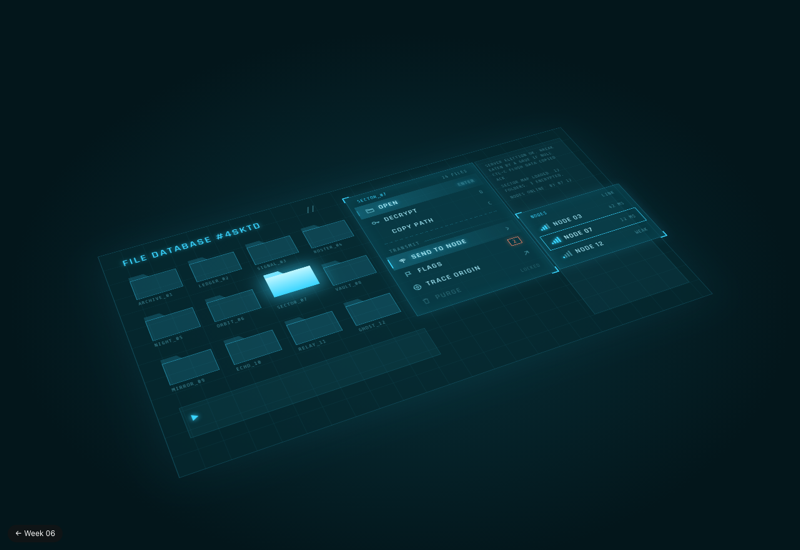
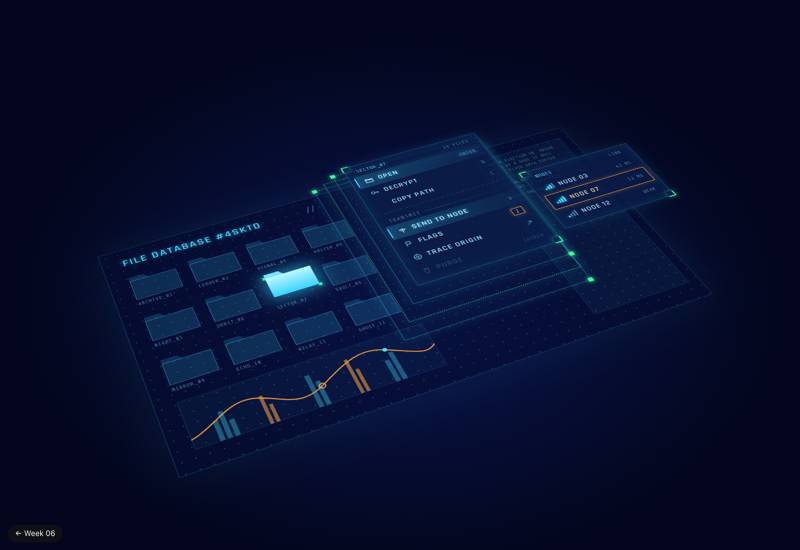
Week 06 Set 1: Vault restyled navy/cyan/green/orange with stacking-tier open
Claude-Session: https://claude.ai/code/session_01NJxmaEWhDanH1Md96UKkh6

Changed region(s): [[0.125, 0.2164, 0.9062, 0.8655]]

diff --git a/week-06/week-06-vault-menu.html b/week-06/week-06-vault-menu.html
@@ -5,7 +5,7 @@
   <meta name="viewport" content="width=device-width, initial-scale=1" />
   <title>Week 06 · Set 1 · Vault · In use</title>
   <link rel="icon" href="../shared/favicon.svg" type="image/svg+xml" />
-  <link rel="stylesheet" href="week-06-vault.css?v=1" />
+  <link rel="stylesheet" href="week-06-vault.css?v=2" />
   <style>
   /* In use: a holographic file database, projected on a tilted sheet of glass. Folders sit on the
      plane; pointing at one lifts it off the glass. Clicking it opens its menu: a line of light
@@ -16,13 +16,13 @@
   body { background: var(--void); color: var(--ink); font: 500 14px/1.3 var(--font); -webkit-font-smoothing: antialiased; }
   button { font: inherit; }
   :root { --w: 1000px; --h: 640px; --fit: 1; }
-  .hero { position: relative; height: 100vh; overflow: hidden; background: radial-gradient(70% 70% at 50% 55%, #08313a, var(--void) 70%); }
+  .hero { position: relative; height: 100vh; overflow: hidden; background: radial-gradient(70% 70% at 50% 55%, #0a1650, var(--void) 70%); }
   .stage { position: absolute; left: 50%; top: 50%; width: var(--w); height: var(--h); transform: translate(-50%, -50%) scale(var(--fit)); perspective: 1800px; }
 
   /* the tilted plane: everything sits on it, so it all shares one perspective */
   .plane { position: absolute; left: 30px; top: 60px; width: 940px; height: 520px; transform-style: preserve-3d; transform: rotateX(46deg) rotateZ(-24deg) scale(.92); transform-origin: 50% 50%;
-    background: linear-gradient(rgba(57,213,255,.05) 1px, transparent 1px) 0 0 / 40px 40px, linear-gradient(90deg, rgba(57,213,255,.05) 1px, transparent 1px) 0 0 / 40px 40px, rgba(6, 42, 49, .7);
-    box-shadow: inset 0 0 0 1px rgba(57,213,255,.18), 0 0 80px rgba(57,213,255,.08); }
+    background: radial-gradient(rgba(61,227,255,.28) 1px, transparent 1.5px) 0 0 / 22px 22px, rgba(6, 13, 51, .55);
+    box-shadow: inset 0 0 0 1px rgba(61,227,255,.22), 0 0 90px rgba(61,227,255,.08); }
   .plane > * { position: absolute; }
   .title { left: 36px; top: 26px; font: 600 22px/1 var(--font); letter-spacing: .1em; color: var(--cyan); text-shadow: 0 0 10px rgba(57,213,255,.6); }
   .ticks { left: 380px; top: 24px; font: 400 18px/1 var(--mono); color: var(--ink-3); }
@@ -30,34 +30,42 @@
   .cell { display: grid; justify-items: start; gap: 6px; transform-style: preserve-3d; }
   .cell span { font: 400 10px/1 var(--mono); letter-spacing: .06em; color: var(--ink-3); transition: color var(--hover-time); }
   .cell:hover span, .cell:focus-within span { color: var(--cyan-hi); }
-  .strip { left: 36px; top: 392px; width: 420px; height: 64px; background: rgba(57,213,255,.06); box-shadow: inset 0 0 0 1px rgba(57,213,255,.14); }
-  .strip::before { content: "▶"; position: absolute; left: 12px; top: 20px; color: var(--cyan); text-shadow: 0 0 8px var(--cyan); }
+  .strip { left: 36px; top: 380px; width: 420px; height: 100px; background: rgba(61,227,255,.04); box-shadow: inset 0 0 0 1px rgba(61,227,255,.16); }
+  .strip svg { width: 100%; height: 100%; display: block; }
   .log { left: 730px; top: 30px; width: 190px; height: 450px; padding: 14px; overflow: hidden; background: rgba(57,213,255,.05); box-shadow: inset 0 0 0 1px rgba(57,213,255,.16);
     font: 400 10.5px/1.45 var(--mono); color: rgba(95,179,196,.55); letter-spacing: .03em; }
   .log p { margin: 0 0 6px; }
-  .log p.is-new { color: var(--cyan-hi); text-shadow: 0 0 6px rgba(57,213,255,.7); }
+  .log p.is-new { color: var(--orange); text-shadow: 0 0 6px rgba(255,160,64,.6); }
   .log p.is-new::after { content: "▌"; animation: caret .6s steps(1) infinite; }
   .log p.is-done::after { display: none; }
   @keyframes caret { 50% { opacity: 0; } }
 
-  /* the menu: shut, it is nothing; opening, a line of light that widens into the panel */
-  .v-pop { left: 456px; top: 30px; z-index: 5; visibility: hidden; opacity: 0; clip-path: inset(49.5% 0 49.5% 0);
-    transition: clip-path var(--close-time) var(--ease-out), opacity var(--close-time) var(--ease-out), visibility 0s var(--close-time); }
-  .v-pop.is-open { visibility: visible; opacity: 1; clip-path: inset(-20px -20px -20px -20px);
-    transition: clip-path var(--open-time) var(--ease-out) 90ms, opacity 60ms linear, visibility 0s; animation: flicker var(--open-time) linear; }
-  /* once it has materialised, nothing clips it, so the submenu can reach out beside */
-  .v-pop.is-open.is-settled { clip-path: none; }
-  @keyframes flicker { 0%, 20% { filter: brightness(1.8); } 70% { filter: brightness(1); } 76% { filter: brightness(.7); } 80% { filter: brightness(1.2); } 100% { filter: none; } }
-  .v-pop .flash { position: absolute; left: -10px; right: -10px; top: 50%; height: 2px; margin-top: -1px; background: var(--cyan-hi); box-shadow: 0 0 14px 2px var(--cyan); opacity: 0; scale: 0 1; pointer-events: none; }
-  .v-pop.is-open .flash { animation: beam var(--open-time) var(--ease-out); }
-  @keyframes beam { 0% { opacity: 1; scale: 0 1; } 25% { opacity: 1; scale: 1 1; } 60% { opacity: 0; scale: 1 1; } 100% { opacity: 0; } }
+  /* the menu: shut, it lies flat on the floor. Opening, it is built up in tiers, like a stepped
+     pyramid: three frames rise off the floor one after another, the widest and lowest first, and the
+     menu settles on top. Closing, the whole stack sinks back to the floor at once. */
+  .v-pop { left: 456px; top: 30px; z-index: 5; visibility: hidden; transform-style: preserve-3d; transform: translateZ(calc(var(--tier-gap) * 3));
+    transition: visibility 0s var(--close-time); }
+  .v-pop.is-open { visibility: visible; transition: visibility 0s; }
+  .tier { position: absolute; inset: calc(var(--n) * -14px); pointer-events: none; border: 1px solid rgba(61, 227, 255, .4); background: rgba(61, 227, 255, .025);
+    box-shadow: 0 0 18px rgba(61, 227, 255, .12); opacity: 0; transform: translateZ(calc(var(--tier-gap) * -3));
+    transition: transform var(--close-time) var(--ease-out), opacity var(--close-time) var(--ease-out); }
+  .tier.is-dotted { border: 2px dotted rgba(57, 255, 154, .55); background: transparent; }
+  .tier::before, .tier::after { content: ""; position: absolute; width: 9px; height: 9px; background: var(--green); box-shadow: 0 0 10px var(--green); }
+  .tier::before { left: -5px; top: -5px; } .tier::after { right: -5px; bottom: -5px; }
+  .tier.is-dotted::before, .tier.is-dotted::after { display: none; }
+  .v-pop.is-open .tier { opacity: 1; transform: translateZ(calc(var(--tier-gap) * -1 * var(--n)));
+    transition: transform var(--tier-time) var(--ease-out) calc((3 - var(--n)) * var(--tier-step)), opacity 180ms ease calc((3 - var(--n)) * var(--tier-step)); }
+  .v-pop > .v-menu { opacity: 0; transform: translateZ(calc(var(--tier-gap) * -3)); transition: transform var(--close-time) var(--ease-out), opacity var(--close-time) var(--ease-out); }
+  .v-pop.is-open > .v-menu { opacity: 1; transform: translateZ(0); transition: transform var(--tier-time) var(--ease-out) calc(3 * var(--tier-step)), opacity 220ms ease calc(3 * var(--tier-step)); }
+  .v-pop .rows, .v-pop .has-sub { transform-style: preserve-3d; }
   .v-pop .rows > * { opacity: 0; translate: -8px 0; transition: opacity 120ms, translate 120ms; }
-  .v-pop.is-open .rows > * { opacity: 1; translate: 0 0; transition: opacity 260ms var(--ease-out), translate 360ms var(--ease-out); transition-delay: calc(var(--i) * var(--stagger) + 160ms); }
+  .v-pop.is-open .rows > * { opacity: 1; translate: 0 0; transition: opacity 260ms var(--ease-out), translate 360ms var(--ease-out); transition-delay: calc(var(--i) * var(--stagger) + 3 * var(--tier-step) + 120ms); }
 
   .has-sub { position: relative; }
-  .submenu.v-menu { position: absolute; left: calc(100% + 14px); top: -10px; width: 220px; visibility: hidden; opacity: 0; clip-path: inset(0 100% 0 0);
-    transition: clip-path var(--close-time) var(--ease-out), opacity var(--close-time), visibility 0s var(--close-time); }
-  .has-sub.is-open > .submenu { visibility: visible; opacity: 1; clip-path: inset(-20px -20px -20px -20px); transition: clip-path 340ms var(--ease-out), opacity 80ms, visibility 0s; }
+  /* the submenu is one more tier on the stack: it rises off the menu as it slides out */
+  .submenu.v-menu { position: absolute; left: calc(100% + 14px); top: -10px; width: 220px; visibility: hidden; opacity: 0; transform: translateZ(0) translateX(-12px);
+    transition: transform var(--close-time) var(--ease-out), opacity var(--close-time), visibility 0s var(--close-time); }
+  .has-sub.is-open > .submenu { visibility: visible; opacity: 1; transform: translateZ(var(--tier-gap)) translateX(0); transition: transform var(--tier-time) var(--ease-out), opacity 160ms, visibility 0s; }
 
   .s-item.is-no { animation: deny 360ms var(--ease-out); }
   @keyframes deny { 0%, 100% { color: var(--ink-off); } 30% { color: var(--alert); text-shadow: 0 0 8px var(--alert); translate: -3px 0; } 60% { translate: 2px 0; } }
@@ -72,7 +80,11 @@
         <div class="title" aria-hidden="true">FILE DATABASE #4SKTD</div>
         <div class="ticks" aria-hidden="true">//</div>
         <div class="grid" role="group" aria-label="Folders"></div>
-        <div class="strip" aria-hidden="true"></div>
+        <div class="strip" aria-hidden="true"><svg viewBox="0 0 420 100" preserveAspectRatio="none">
+          <g fill="rgba(61,227,255,.35)"><rect x="40" y="58" width="8" height="42"/><rect x="52" y="44" width="8" height="56"/><rect x="64" y="66" width="8" height="34"/><rect x="200" y="30" width="8" height="70"/><rect x="212" y="48" width="8" height="52"/><rect x="330" y="52" width="8" height="48"/><rect x="342" y="38" width="8" height="62"/></g>
+          <g fill="rgba(255,160,64,.55)"><rect x="120" y="40" width="6" height="60"/><rect x="130" y="62" width="6" height="38"/><rect x="270" y="24" width="6" height="76"/><rect x="280" y="50" width="6" height="50"/></g>
+          <path d="M0 80 C 40 70, 70 30, 110 40 S 170 90, 220 60 S 300 10, 340 30 S 400 70, 420 50" fill="none" stroke="#ffa040" stroke-width="2"/>
+          <circle cx="220" cy="60" r="5" fill="none" stroke="#ffa040" stroke-width="2"/><circle cx="340" cy="30" r="4" fill="#3de3ff"/></svg></div>
         <div class="log" aria-live="polite" aria-label="Log">
           <p>SERVER ELECTION OK. BREAK EATEN BY A GRUE IF NULL. CTL-C FLUSH DATA COPIED ACK.</p>
           <p>SECTOR MAP LOADED. 12 FOLDERS. 3 ENCRYPTED.</p>
@@ -80,7 +92,9 @@
         </div>
 
         <div class="v-pop" id="file-menu">
-          <span class="flash" aria-hidden="true"></span>
+          <span class="tier" style="--n:3" aria-hidden="true"></span>
+          <span class="tier is-dotted" style="--n:2" aria-hidden="true"></span>
+          <span class="tier" style="--n:1" aria-hidden="true"></span>
           <div class="v-menu">
             <div class="v-head" aria-hidden="true"><b id="menu-folder">SECTOR_07</b><span id="menu-count">14 FILES</span></div>
             <div class="rows" role="menu" aria-labelledby="menu-folder">
@@ -110,7 +124,7 @@
 
   <section class="spec" aria-labelledby="spec-title">
     <h2 id="spec-title">Spec</h2>
-    <p>Read from the values this page runs on. Light does the work: rows fill with it, folders rise on it, the menu is drawn out of a single line of it.</p>
+    <p>Read from the values this page runs on. The menu is built, not shown: three tiers rise off the floor one after another and the menu settles on top; the submenu is one tier more.</p>
     <div class="spec-grid"></div>
   </section>
 
@@ -118,7 +132,7 @@
   <script>
     // the folders on the plane
     const names = ['ARCHIVE_01', 'LEDGER_02', 'SIGNAL_03', 'ROSTER_04', 'NIGHT_05', 'ORBIT_06', 'SECTOR_07', 'VAULT_08', 'MIRROR_09', 'ECHO_10', 'RELAY_11', 'GHOST_12'];
-    document.querySelector('.grid').innerHTML = names.map((n, i) => `<div class="cell"><button class="folder" type="button" aria-haspopup="menu" aria-expanded="false" aria-controls="file-menu" aria-label="${n}" data-files="${[14, 9, 31, 6, 22, 3, 14, 40, 11, 8, 17, 2][i]}"></button><span aria-hidden="true">${n}</span></div>`).join('');
+    document.querySelector('.grid').innerHTML = names.map((n, i) => `<div class="cell"><button class="folder" type="button" aria-haspopup="menu" aria-expanded="false" aria-controls="file-menu" aria-label="${n}" data-files="${[14, 9, 31, 6, 22, 3, 14, 40, 11, 8, 17, 2][i]}"><i class="node a"></i><i class="node b"></i></button><span aria-hidden="true">${n}</span></div>`).join('');
   </script>
   <script src="week-06-sketch.js?v=2"></script>
   <script>
@@ -177,6 +191,6 @@
       if (location.hash === '#open') { const f = document.querySelectorAll('.folder')[6]; pop.style.transition = 'none'; open(f); pop.classList.add('is-settled'); const h = pop.querySelector('.has-sub'); h.classList.add('is-open'); }
     })();
   </script>
-  <script src="week-06-vault-spec.js?v=1"></script>
+  <script src="week-06-vault-spec.js?v=2"></script>
 </body>
 </html>

diff --git a/week-06/week-06-vault.css b/week-06/week-06-vault.css
@@ -6,19 +6,21 @@
 
 :root {
   /* colour */
-  --void: #03161b;           /* the room */
-  --plane: #062a31;          /* the glass plane */
-  --glass: rgba(9, 70, 82, .55);   /* the menu */
-  --cyan: #39d5ff;           /* light */
-  --cyan-hi: #b6f4ff;        /* hot light: hover text, the open folder */
-  --ink: #9fe3f2;            /* item text */
-  --ink-2: #5fb3c4;          /* icons */
-  --ink-3: #3d8796;          /* keys, section labels */
-  --ink-off: rgba(95, 179, 196, .32); /* unavailable */
-  --line: rgba(57, 213, 255, .28);
-  --hot: rgba(57, 213, 255, .22);    /* hover fill */
-  --hot-press: rgba(57, 213, 255, .45);
-  --alert: #ff8a6b;
+  --void: #03061c;           /* the room: deep navy */
+  --plane: #060d33;          /* the floor, dotted */
+  --glass: rgba(10, 28, 72, .78);  /* the menu */
+  --cyan: #3de3ff;           /* light */
+  --cyan-hi: #c2f7ff;        /* hot light: hover text, the open folder */
+  --green: #39ff9a;          /* the corner nodes; pressed */
+  --orange: #ffa040;         /* what needs you: badges, the chosen node, the newest log line */
+  --ink: #a6e9f7;            /* item text */
+  --ink-2: #5fb8d0;          /* icons */
+  --ink-3: #4a7fa8;          /* keys, section labels */
+  --ink-off: rgba(95, 184, 208, .3); /* unavailable */
+  --line: rgba(61, 227, 255, .3);
+  --hot: rgba(61, 227, 255, .2);     /* hover fill */
+  --hot-press: rgba(57, 255, 154, .35);
+  --alert: #ffa040;
 
   /* type */
   --font: "Rajdhani", "Arial Narrow", sans-serif;
@@ -36,16 +38,19 @@
   --ease-out: cubic-bezier(.16, 1, .3, 1);
   --hover-time: 220ms;
   --lift: 14px;              /* a folder rises off the plane */
-  --open-time: 420ms;        /* the menu materialises: a line, then the panel */
-  --close-time: 200ms;
+  --tier-gap: 22px;          /* each tier stands this far above the one below */
+  --tier-time: 360ms;        /* how long one tier takes to rise */
+  --tier-step: 90ms;         /* tiers rise one after another, lowest first */
+  --open-time: 560ms;        /* the whole stack, from the floor to the menu on top */
+  --close-time: 220ms;       /* the stack sinks back to the floor at once */
   --stagger: 26ms;
   --type-speed: 14ms;        /* the log types a letter at a time */
 }
 
 /* ---------- the menu: projected glass with bracketed corners ---------- */
 .v-menu { position: relative; width: var(--menu-w); padding: var(--menu-pad); background: var(--glass); border: 1px solid var(--line);
-  box-shadow: inset 0 0 30px rgba(57, 213, 255, .08), 0 0 24px rgba(57, 213, 255, .12); -webkit-backdrop-filter: blur(4px); backdrop-filter: blur(4px); }
-.v-menu::before, .v-menu::after { content: ""; position: absolute; width: 14px; height: 14px; border: var(--edge) solid var(--cyan); pointer-events: none; }
+  box-shadow: inset 0 0 30px rgba(57, 213, 255, .08), 0 0 24px rgba(57, 213, 255, .12); transform-style: preserve-3d; }
+.v-menu::before, .v-menu::after { content: ""; position: absolute; width: 14px; height: 14px; border: var(--edge) solid var(--green); box-shadow: 0 0 8px rgba(57, 255, 154, .5); pointer-events: none; }
 .v-menu::before { left: -3px; top: -3px; border-right: 0; border-bottom: 0; }
 .v-menu::after { right: -3px; bottom: -3px; border-left: 0; border-top: 0; }
 .v-head { display: flex; justify-content: space-between; padding: 4px var(--item-px) 8px; font: 400 11px/1 var(--mono); color: var(--ink-3); letter-spacing: .06em; }
@@ -63,7 +68,8 @@
   background: linear-gradient(90deg, var(--hot), rgba(57, 213, 255, .03)); color: var(--cyan-hi); text-shadow: 0 0 8px rgba(57, 213, 255, .8); padding-left: calc(var(--item-px) + 4px); }
 .s-item:hover::before, .s-item:focus-visible::before, .s-item.is-hover::before, .has-sub.is-open > .s-item::before { opacity: 1; scale: 1 1; }
 /* pressed: the row flares */
-.s-item:active, .s-item.is-press, .s-item.is-picked { background: linear-gradient(90deg, var(--hot-press), rgba(57, 213, 255, .12)); color: #fff; text-shadow: 0 0 12px var(--cyan); }
+.s-item:active, .s-item.is-press, .s-item.is-picked { background: linear-gradient(90deg, var(--hot-press), rgba(57, 255, 154, .06)); color: #eafff4; text-shadow: 0 0 12px var(--green); }
+.s-item:active::before, .s-item.is-press::before { background: var(--green); box-shadow: 0 0 12px var(--green); opacity: 1; scale: 1 1; }
 .s-item[aria-disabled="true"] { color: var(--ink-off); background: transparent; text-shadow: none; padding-left: var(--item-px); cursor: default; }
 .s-item[aria-disabled="true"]::before { display: none; }
 .s-ico { width: var(--icon); height: var(--icon); flex: none; color: var(--ink-2); transition: color var(--hover-time); }
@@ -75,7 +81,7 @@
 .s-item:hover .s-key, .s-item.is-hover .s-key { color: var(--cyan); }
 .s-end { width: 14px; height: 14px; flex: none; color: var(--ink-3); }
 .s-note { font: 400 11px/1 var(--mono); color: var(--ink-off); letter-spacing: .04em; }
-.s-badge { min-width: 22px; height: 18px; padding: 0 6px; border: 1px solid var(--alert); color: var(--alert); font: 400 12px/16px var(--mono); text-align: center; box-shadow: 0 0 8px rgba(255, 138, 107, .35); }
+.s-badge { min-width: 22px; height: 18px; padding: 0 6px; border: 1px solid var(--orange); color: var(--orange); font: 400 12px/16px var(--mono); text-align: center; box-shadow: 0 0 8px rgba(255, 160, 64, .4); }
 .s-sect { display: flex; align-items: center; gap: 8px; padding: 10px var(--item-px) 6px; font: 400 11px/1 var(--mono); letter-spacing: .14em; color: var(--ink-3); }
 .s-sect::after { content: ""; flex: 1; height: 1px; background: linear-gradient(90deg, var(--line), transparent); }
 .s-rule { height: 1px; margin: 6px var(--item-px); background: repeating-linear-gradient(90deg, var(--line) 0 6px, transparent 6px 10px); }
@@ -85,7 +91,7 @@
   font: 600 15px/1 var(--font); letter-spacing: var(--track); text-transform: uppercase; transition: background-color var(--hover-time) var(--ease-out), color var(--hover-time) var(--ease-out); }
 .s-node:hover, .s-node:focus-visible, .s-node.is-hover { background: linear-gradient(90deg, var(--hot), transparent); color: var(--cyan-hi); outline: none; }
 .s-node:active, .s-node.is-press { background: var(--hot-press); color: #fff; }
-.s-node[aria-checked="true"] { color: var(--cyan-hi); box-shadow: inset 0 0 0 1px var(--cyan); }
+.s-node[aria-checked="true"] { color: #ffd9b0; box-shadow: inset 0 0 0 1px var(--orange), 0 0 10px rgba(255, 160, 64, .3); }
 .s-node .sig { display: flex; align-items: flex-end; gap: 2px; height: 14px; }
 .s-node .sig i { width: 3px; background: var(--ink-3); }
 .s-node .sig i.on { background: var(--cyan); box-shadow: 0 0 6px var(--cyan); }
@@ -99,13 +105,17 @@
 .folder:hover, .folder:focus-visible, .folder.is-hover { transform: translateZ(var(--lift)); outline: none; }
 .folder:hover::after, .folder:focus-visible::after, .folder.is-hover::after { background: rgba(57, 213, 255, .34); box-shadow: inset 0 0 0 1px var(--cyan), 0 0 24px rgba(57, 213, 255, .45); }
 .folder:hover::before, .folder.is-hover::before { background: rgba(57, 213, 255, .4); }
+/* lifted or open, a folder shows its corner nodes, like the frames of the stack */
+.folder .node { position: absolute; width: 6px; height: 6px; background: var(--green); box-shadow: 0 0 8px var(--green); opacity: 0; transition: opacity var(--hover-time); }
+.folder .node.a { left: -4px; top: 6px; } .folder .node.b { right: -4px; bottom: -4px; }
+.folder:hover .node, .folder:focus-visible .node, .folder.is-hover .node, .folder[aria-expanded="true"] .node { opacity: 1; }
 .folder:active, .folder.is-press { transform: translateZ(4px); }
 .folder[aria-expanded="true"] { transform: translateZ(var(--lift)); }
 .folder[aria-expanded="true"]::after { background: linear-gradient(#bff6ff, #39d5ff); box-shadow: 0 0 34px 6px rgba(57, 213, 255, .6); }
 .folder[aria-expanded="true"]::before { background: #8fe9ff; }
 
 /* ---------- the spec, under each prototype ---------- */
-.spec { padding: 48px 32px 64px; background: #020f12; color: #9fd8e4; font: 15px/1.5 var(--font); }
+.spec { padding: 48px 32px 64px; background: #020414; color: #9fd8e4; font: 15px/1.5 var(--font); }
 .spec h2 { margin: 0 0 4px; font: 700 26px/1.2 var(--font); letter-spacing: .12em; text-transform: uppercase; color: var(--cyan-hi); text-shadow: 0 0 10px rgba(57,213,255,.5); }
 .spec > p { margin: 0 0 24px; color: #5f9fae; max-width: 62ch; }
 .spec-grid { display: grid; grid-template-columns: repeat(auto-fill, minmax(260px, 1fr)); gap: 14px; }

diff --git a/week-06/week-06.html b/week-06/week-06.html
@@ -614,8 +614,8 @@
       <div class="set-grid">
         <div class="set-box" id="set-1">
           <button type="button" class="set-card" aria-haspopup="dialog" aria-controls="dlg-1">
-            <span class="set-thumbs" aria-hidden="true"><img src="images/process/vault-menu-1.png" alt="" loading="lazy" /><img src="images/process/vault-system-1.png" alt="" loading="lazy" /></span>
-            <span class="set-head"><span class="set-num">Set 1</span><span class="set-name">Vault</span><span class="set-line">Futuristic. The file menu of a holographic database on a tilted sheet of glass: folders lift off the plane, the menu is drawn out of a line of light, and every pick is typed into the log.</span></span>
+            <span class="set-thumbs" aria-hidden="true"><img src="images/process/vault-menu-1.png?v=2" alt="" loading="lazy" /><img src="images/process/vault-system-1.png?v=2" alt="" loading="lazy" /></span>
+            <span class="set-head"><span class="set-num">Set 1</span><span class="set-name">Vault</span><span class="set-line">Futuristic. The file menu of a holographic database on a tilted navy plane: open a folder and three frames stack up off the grid, one tier at a time, and the menu settles on top. Cyan light, green corner nodes, orange for what you chose.</span></span>
             <span class="set-open" aria-hidden="true"></span>
           </button>
           <dialog class="set-dialog" id="dlg-1" aria-labelledby="dlg-1-title">
@@ -627,19 +627,19 @@
               <h4>Prototypes</h4>
               <div class="proto-grid">
                 <figure class="proto">
-                  <iframe src="week-06-vault-system.html?v=1" title="Vault menu system: every item configuration in enabled, hover and pressed, with its spec" loading="lazy"></iframe>
+                  <iframe src="week-06-vault-system.html?v=2" title="Vault menu system: every item configuration in enabled, hover and pressed, with its spec" loading="lazy"></iframe>
                   <figcaption>
                     <b>Menu system</b>
                     <span>One item build in every configuration, laid flat to read: label only, left icon, key, badge, right icon, submenu item, a node in the submenu, unavailable, sections, and the folder that opens it all. The spec follows.</span>
-                    <button type="button" class="viewer-open" data-src="week-06-vault-system.html?v=1">View larger</button>
+                    <button type="button" class="viewer-open" data-src="week-06-vault-system.html?v=2">View larger</button>
                   </figcaption>
                 </figure>
                 <figure class="proto">
-                  <iframe src="week-06-vault-menu.html?v=1" title="Vault in use: a holographic file database" loading="lazy"></iframe>
+                  <iframe src="week-06-vault-menu.html?v=2" title="Vault in use: a holographic file database" loading="lazy"></iframe>
                   <figcaption>
                     <b>In use</b>
-                    <span>The menu starts shut. Point at a folder and it lifts; click it and its menu materialises from a line of light. Send to node opens the nodes beside it. Picks are typed into the log; Esc or a click on the plane closes it. The spec follows.</span>
-                    <button type="button" class="viewer-open" data-src="week-06-vault-menu.html?v=1">View larger</button>
+                    <span>The menu starts shut. Point at a folder and it lifts; click it and three frames rise off the grid one after another, the menu landing on the top tier. Send to node opens the nodes one tier higher still. Picks are typed into the log; Esc or a click on the plane sinks the stack at once. The spec follows.</span>
+                    <button type="button" class="viewer-open" data-src="week-06-vault-menu.html?v=2">View larger</button>
                   </figcaption>
                 </figure>
               </div>
@@ -650,12 +650,12 @@
                 <figure><img src="images/process/seance-menu-1.png" alt="S&eacute;ance, a horror game&rsquo;s menu on a spirit board" loading="lazy" /><figcaption>S&eacute;ance: a horror game on a spirit board.</figcaption></figure>
                 <figure><img src="images/process/harvest-menu-1.png" alt="Harvest, a pixel farming game&rsquo;s menu" loading="lazy" /><figcaption>Harvest: a pixel farm, moving in steps.</figcaption></figure>
                 <figure><img src="images/process/ledger-menu-1.png" alt="Ledger, a finance app&rsquo;s Move money menu" loading="lazy" /><figcaption>Ledger: a finance app, smooth springs.</figcaption></figure>
-                <figure><img src="images/process/vault-menu-0.png" alt="Vault, the menu shut" loading="lazy" /><figcaption>Vault, shut: the folders on the plane.</figcaption></figure>
-                <figure><img src="images/process/vault-menu-1.png" alt="Vault, the menu and its submenu open" loading="lazy" /><figcaption>Vault, open: SECTOR_07&rsquo;s menu, the nodes beside it.</figcaption></figure>
+                <figure><img src="images/process/vault-menu-0.png?v=2" alt="Vault, the menu shut" loading="lazy" /><figcaption>Vault, shut: the folders on the plane.</figcaption></figure>
+                <figure><img src="images/process/vault-menu-1.png?v=2" alt="Vault, the menu and its submenu open" loading="lazy" /><figcaption>Vault, open: SECTOR_07&rsquo;s menu on its stack of tiers, the nodes a tier above.</figcaption></figure>
               </div>
               <p class="process-label">Menu system</p>
               <div class="process-grid">
-                <figure><img src="images/process/vault-system-1.png" alt="Vault menu system" loading="lazy" /><figcaption>Every configuration in three states.</figcaption></figure>
+                <figure><img src="images/process/vault-system-1.png?v=2" alt="Vault menu system" loading="lazy" /><figcaption>Every configuration in three states.</figcaption></figure>
               </div>
             </div>
           </dialog>

diff --git a/week-06/week-06-vault-system.html b/week-06/week-06-vault-system.html
@@ -5,19 +5,19 @@
   <meta name="viewport" content="width=device-width, initial-scale=1" />
   <title>Week 06 · Set 1 · Vault · Menu system</title>
   <link rel="icon" href="../shared/favicon.svg" type="image/svg+xml" />
-  <link rel="stylesheet" href="week-06-vault.css?v=1" />
+  <link rel="stylesheet" href="week-06-vault.css?v=2" />
   <style>
   /* Menu system: one item build, every configuration the brief asks for, each in its three
      states, laid flat so it can be read. The Enabled column is live; the other two hold the
      states still, to compare. The folder that opens the menu is here too. */
   *, *::before, *::after { box-sizing: border-box; }
   html, body { margin: 0; }
-  body { background: radial-gradient(80% 60% at 50% 0%, #08313a, var(--void) 70%) var(--void); color: var(--ink); font: 500 14px/1.4 var(--font); -webkit-font-smoothing: antialiased; }
+  body { background: radial-gradient(80% 60% at 50% 0%, #0a1650, var(--void) 70%) var(--void); color: var(--ink); font: 500 14px/1.4 var(--font); -webkit-font-smoothing: antialiased; }
   button { font: inherit; }
   .top { padding: 30px 32px 22px; }
   .top h1 { margin: 0; font: 700 28px/1.1 var(--font); letter-spacing: .1em; color: var(--cyan); text-shadow: 0 0 12px rgba(57,213,255,.6); }
   .top p { margin: 6px 0 0; font: 400 13px/1.4 var(--mono); color: var(--ink-3); }
-  .sheet { margin: 0 20px; padding: 12px 16px 16px; overflow: hidden; background: linear-gradient(rgba(57,213,255,.04) 1px, transparent 1px) 0 0 / 40px 40px, linear-gradient(90deg, rgba(57,213,255,.04) 1px, transparent 1px) 0 0 / 40px 40px, rgba(6,42,49,.6); box-shadow: inset 0 0 0 1px rgba(57,213,255,.18); }
+  .sheet { margin: 0 20px; padding: 12px 16px 16px; overflow: hidden; background: linear-gradient(rgba(57,213,255,.04) 1px, transparent 1px) 0 0 / 40px 40px, linear-gradient(90deg, rgba(57,213,255,.04) 1px, transparent 1px) 0 0 / 40px 40px, rgba(6,13,51,.6); box-shadow: inset 0 0 0 1px rgba(61,227,255,.2); }
   .fitbox { position: relative; }
   table { width: 1060px; border-collapse: collapse; transform-origin: 0 0; }
   th { padding: 10px 12px; text-align: left; font: 400 11px/1 var(--mono); letter-spacing: .14em; color: var(--ink-3); }
@@ -81,9 +81,9 @@
         </tr>
         <tr>
           <td>Folder<small>what opens the menu: at rest · lifted · open</small></td>
-          <td><button class="folder" type="button" aria-label="Folder, live"></button></td>
-          <td><button class="folder is-hover" type="button" tabindex="-1" aria-hidden="true"></button></td>
-          <td><button class="folder" type="button" aria-expanded="true" tabindex="-1" aria-hidden="true"></button></td>
+          <td><button class="folder" type="button" aria-label="Folder, live"><i class="node a"></i><i class="node b"></i></button></td>
+          <td><button class="folder is-hover" type="button" tabindex="-1" aria-hidden="true"><i class="node a"></i><i class="node b"></i></button></td>
+          <td><button class="folder" type="button" aria-expanded="true" tabindex="-1" aria-hidden="true"><i class="node a"></i><i class="node b"></i></button></td>
         </tr>
       </tbody>
     </table></div>
@@ -114,6 +114,6 @@
     addEventListener('resize', fit); fit(); document.fonts?.ready.then(fit);
     if (window.self === window.top) document.querySelector('.back-pill').removeAttribute('hidden');
   </script>
-  <script src="week-06-vault-spec.js?v=1"></script>
+  <script src="week-06-vault-spec.js?v=2"></script>
 </body>
 </html>

diff --git a/week-06/week-06-vault-spec.js b/week-06/week-06-vault-spec.js
@@ -40,8 +40,8 @@
       ['Padding', px(menu.paddingTop)],
       ['Glass', sw(menu.backgroundColor)],
       ['Edge', `1px, ${hex(menu.borderTopColor)}`],
-      ['Corners', `14px brackets, ${tok('--edge')} light`],
-      ['Behind it', 'blur 4px, inner glow 30px'],
+      ['Corners', `14px brackets, ${tok('--edge')} green`],
+      ['Inner glow', '30px'],
     ]],
     ['Item', [
       ['Height', px(el('item').offsetHeight)],
@@ -83,6 +83,7 @@
       ['Size', `${px(el('folder').offsetWidth)} × ${px(el('folder').offsetHeight)}`],
       ['Hover', `lifts ${tok('--lift')} off the plane`],
       ['Pressed', 'sinks to 4px'],
+      ['Lifted or open', 'two green corner nodes'],
       ['Open', 'filled with light, 34px glow'],
     ]],
     ['Submenu (nodes)', [
@@ -92,9 +93,13 @@
     ]],
     ['Motion', [
       ['Hover', `${tok('--hover-time')}, ${tok('--ease-out')}`],
-      ['Menu opens', `${tok('--open-time')}: a line of light, then the panel`],
+      ['Menu opens', `${tok('--open-time')}, built in tiers`],
+      ['Tiers', `3, ${tok('--tier-gap')} apart, each 14px wider than the one above`],
+      ['Each tier rises', `${tok('--tier-time')}, ${tok('--tier-step')} after the one below`],
+      ['Menu settles', 'on top, after the third tier'],
+      ['Submenu', `one tier more, ${tok('--tier-gap')} above the menu`],
       ['Rows arrive', `${tok('--stagger')} apart`],
-      ['Menu closes', `${tok('--close-time')}, back to a line`],
+      ['Menu closes', `${tok('--close-time')}, the stack sinks at once`],
       ['Log types', `${tok('--type-speed')} a letter`],
     ]],
   ];
